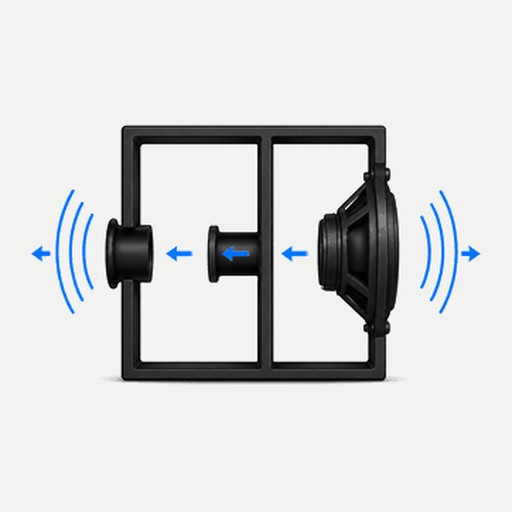
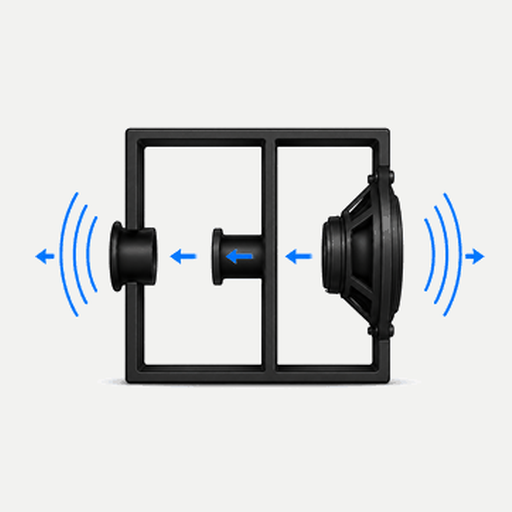
fix(ui): equalize load-card diagram sizes (v0.16.20)
Each load drawing is scaled so the enclosure/driver (dark structure, arrows excluded) has the same height in every card, centered on the structure instead of the arrow span. Cards keep their size with a small uniform margin. Full suite: 224 passed, 0 failed, 0 skipped.

Changed region(s): [[0.0625, 0.2188, 0.9375, 0.7812]]

diff --git a/ui_app.py b/ui_app.py
@@ -1270,7 +1270,7 @@ def _reflex_uses_passive_radiator(*, finder: bool = False) -> bool:
 
 
 @st.cache_data(show_spinner=False)
-def _load_type_card_styles(version: str = "square_v3") -> str:
+def _load_type_card_styles(version: str = "square_v4") -> str:
     """Return compact clickable-card CSS with the supplied diagrams embedded."""
     rules = [
         """

diff --git a/README.md b/README.md
@@ -4,12 +4,12 @@
   <img src="assets/load_forge_header_app.png" alt="Load Forge" width="900">
 </p>
 
-**Multi-Topology Acoustic Load Design & Optimizer** · Version **0.16.19**
+**Multi-Topology Acoustic Load Design & Optimizer** · Version **0.16.20**
 =============================================================================
-[![Version](https://img.shields.io/badge/version-0.16.19-blue.svg)](VERSION)
+[![Version](https://img.shields.io/badge/version-0.16.20-blue.svg)](VERSION)
 [![CI](https://github.com/marcoderossi/load_forge/actions/workflows/ci.yml/badge.svg)](https://github.com/marcoderossi/load_forge/actions)
 
-Current release: **0.16.19**
+Current release: **0.16.20**
 
 Load Forge is a Streamlit simulator for acoustic loudspeaker loads.  It supports
 **DCCAV** / double resonator in series, **fourth-, sixth- and eighth-order bandpass**,

diff --git a/docs/deploy-cloudrun.md b/docs/deploy-cloudrun.md
@@ -22,10 +22,10 @@ gcloud config set project PROJECT_ID
 gcloud services enable run.googleapis.com artifactregistry.googleapis.com
 
 gcloud builds submit \
-  --tag europe-west1-docker.pkg.dev/PROJECT_ID/load-forge/load-forge:0.16.19
+  --tag europe-west1-docker.pkg.dev/PROJECT_ID/load-forge/load-forge:0.16.20
 
 gcloud run deploy load-forge \
-  --image europe-west1-docker.pkg.dev/PROJECT_ID/load-forge/load-forge:0.16.19 \
+  --image europe-west1-docker.pkg.dev/PROJECT_ID/load-forge/load-forge:0.16.20 \
   --region europe-west1 \
   --platform managed \
   --allow-unauthenticated \

diff --git a/CHANGELOG.md b/CHANGELOG.md
@@ -1,5 +1,14 @@
 # Changelog
 
+## 0.16.20 (2026-09-10)
+
+- Give every load-card diagram the same visual size: each drawing is scaled so
+  the enclosure/driver (the dark structure, arrows excluded) has the same
+  height in every card, centered on the structure rather than on the arrow
+  span. Cards keep their size and the diagram fills the square with a small
+  uniform margin.
+- Fresh active suite after the last edit: **224 passed, 0 failed, 0 skipped**.
+
 ## 0.16.19 (2026-09-10)
 
 - Enlarge the load-card diagrams while keeping the card size unchanged. The
